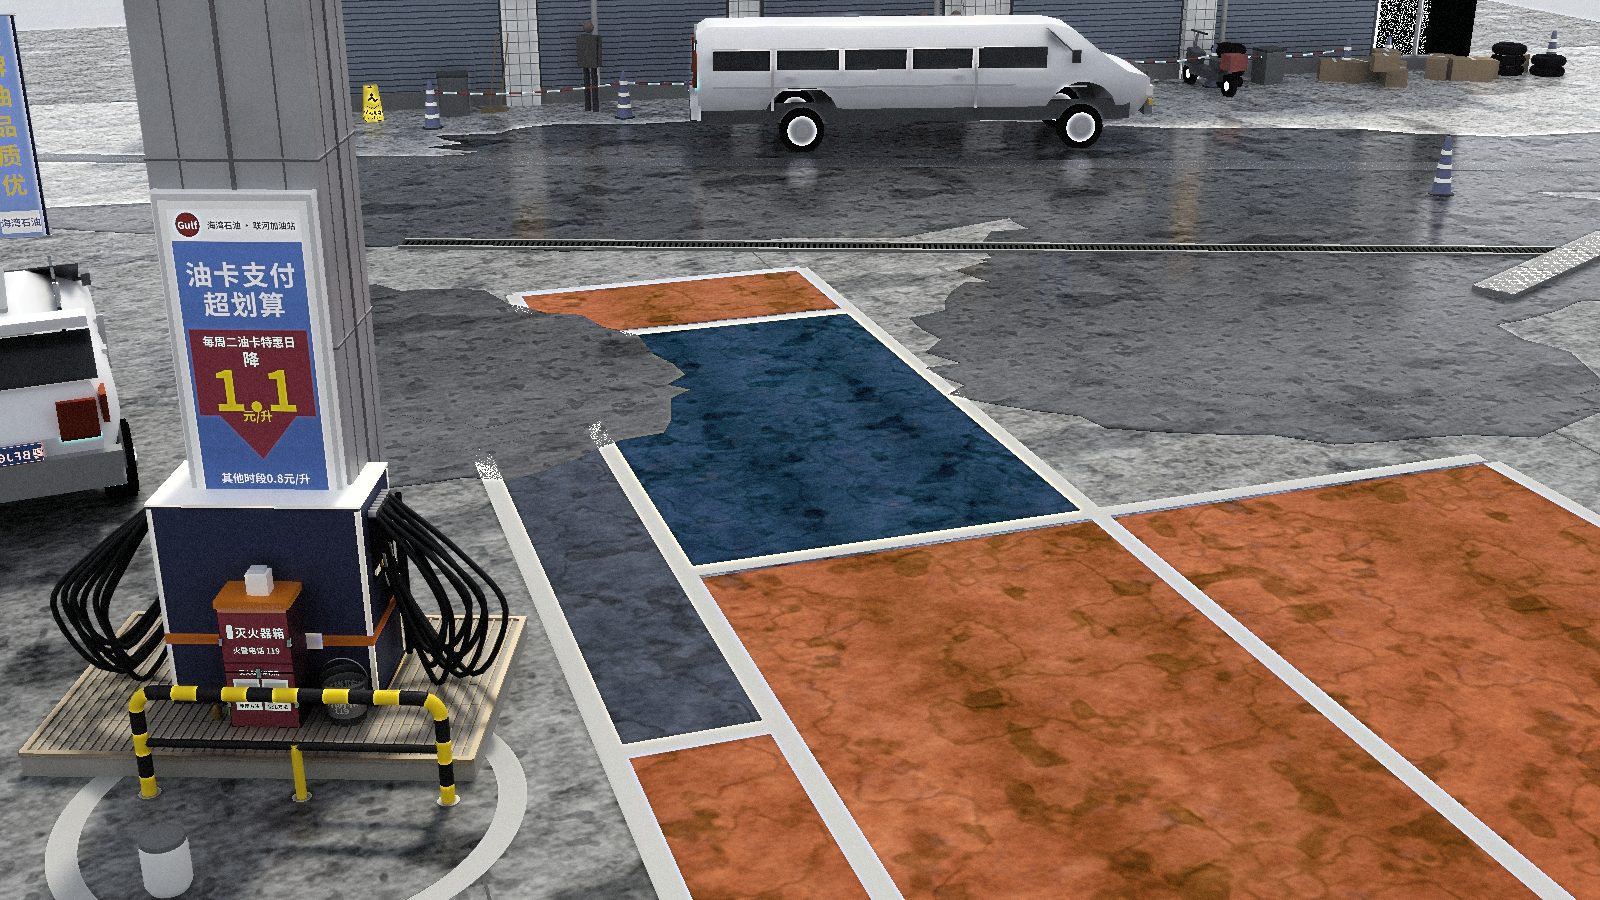
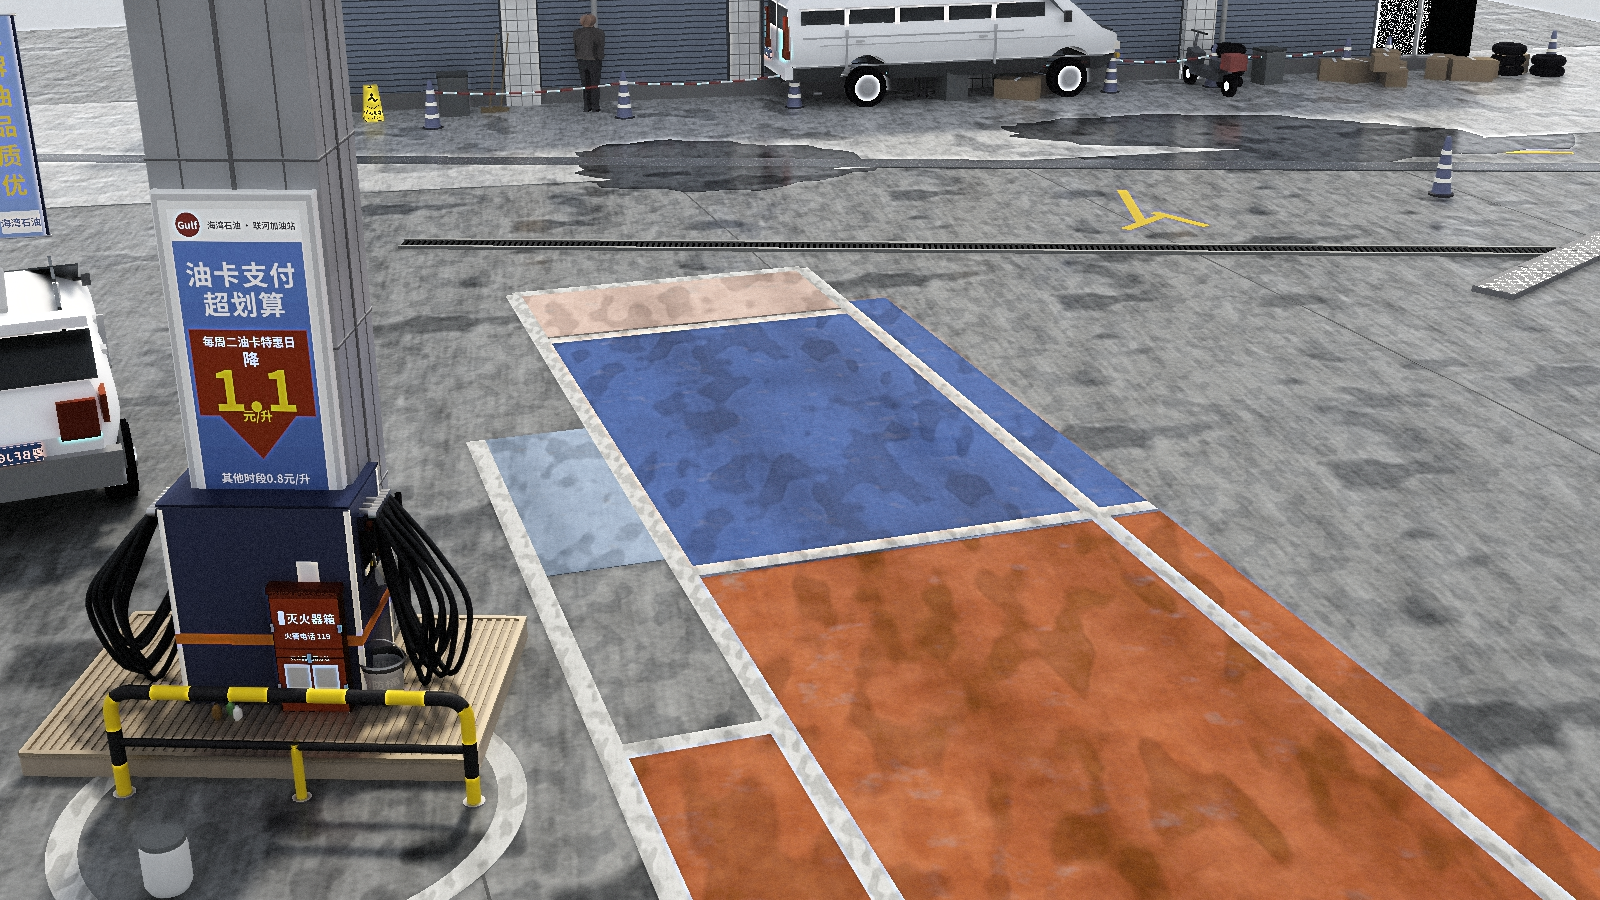
the gallery still never came home, so the only picture anybody looks at was a day old
The box writes docs/gallery/forecourt.png; the pull list did not mention it; the
local copy therefore sat at whatever was last committed. Everything this session
did after that commit -- the van remeasured and moved three and a half metres,
the puddles taken out of a dry forecourt, the bays rebuilt as three lanes, the
concrete relaid along the direction of travel, the island, the figure -- was
invisible in the only two places anybody actually looks, the local checkout and
GitHub. The score kept saying it had improved and the picture kept not changing,
which is a worse failure than either.

Pulled by NAME, not as a directory: a Linux checkout hands the scripts in
docs/gallery over with LF endings and pulling the folder turns every render into
a diff full of files nothing touched. The pull loop now copies entries with a
suffix as files and the rest as directories, because it assumed directories and
would otherwise have made a folder called forecourt.png.

This commit carries the current still, so the gallery is level with HEAD again.

diff --git a/tools/render_on_box.py b/tools/render_on_box.py
@@ -33,10 +33,18 @@ import sys
 from pathlib import Path
 
 ROOT = Path(__file__).resolve().parents[1]
-# Only the OUTPUTS by default. Pulling all of docs/gallery drags back the scripts that
-# live there too, and a Linux checkout hands them over with LF endings, so every render
-# turns into a diff full of files nothing touched.
-DEFAULT_PULL = ["examples/cases/outputs/26_forecourt"]
+# The outputs directory, AND the gallery still by name.
+#
+# The gallery still used to be left behind entirely: the box writes it, the pull list did not
+# mention it, and the local copy therefore sat at whatever was last committed. A whole
+# session's work — a van remeasured and moved three metres, the ground relaid, the bays
+# rebuilt — was invisible in the only two places anybody actually looks, the local checkout
+# and GitHub, and the picture there was a day old while the score said it had improved.
+#
+# By NAME and not the directory: a Linux checkout hands the scripts in docs/gallery over with
+# LF endings, so pulling the folder turns every render into a diff full of files nothing
+# touched. Entries with a suffix are copied as files, the rest as directories.
+DEFAULT_PULL = ["examples/cases/outputs/26_forecourt", "docs/gallery/forecourt.png"]
 PUSH_ASSETS = ["assets/decals"]
 
 
@@ -124,8 +132,12 @@ def main():
     sh("ssh", "-o", "BatchMode=yes", box, " && ".join(steps))
 
     for p in pull:
-        (ROOT / p).mkdir(parents=True, exist_ok=True)
-        sh("scp", "-q", "-r", f"{box}:{box_dir}/{p}/.", str(ROOT / p) + "/")
+        if Path(p).suffix:                    # a single file, not a directory
+            (ROOT / p).parent.mkdir(parents=True, exist_ok=True)
+            sh("scp", "-q", f"{box}:{box_dir}/{p}", str(ROOT / p))
+        else:
+            (ROOT / p).mkdir(parents=True, exist_ok=True)
+            sh("scp", "-q", "-r", f"{box}:{box_dir}/{p}/.", str(ROOT / p) + "/")
         print(f"[box] pulled {p}")
 
 
